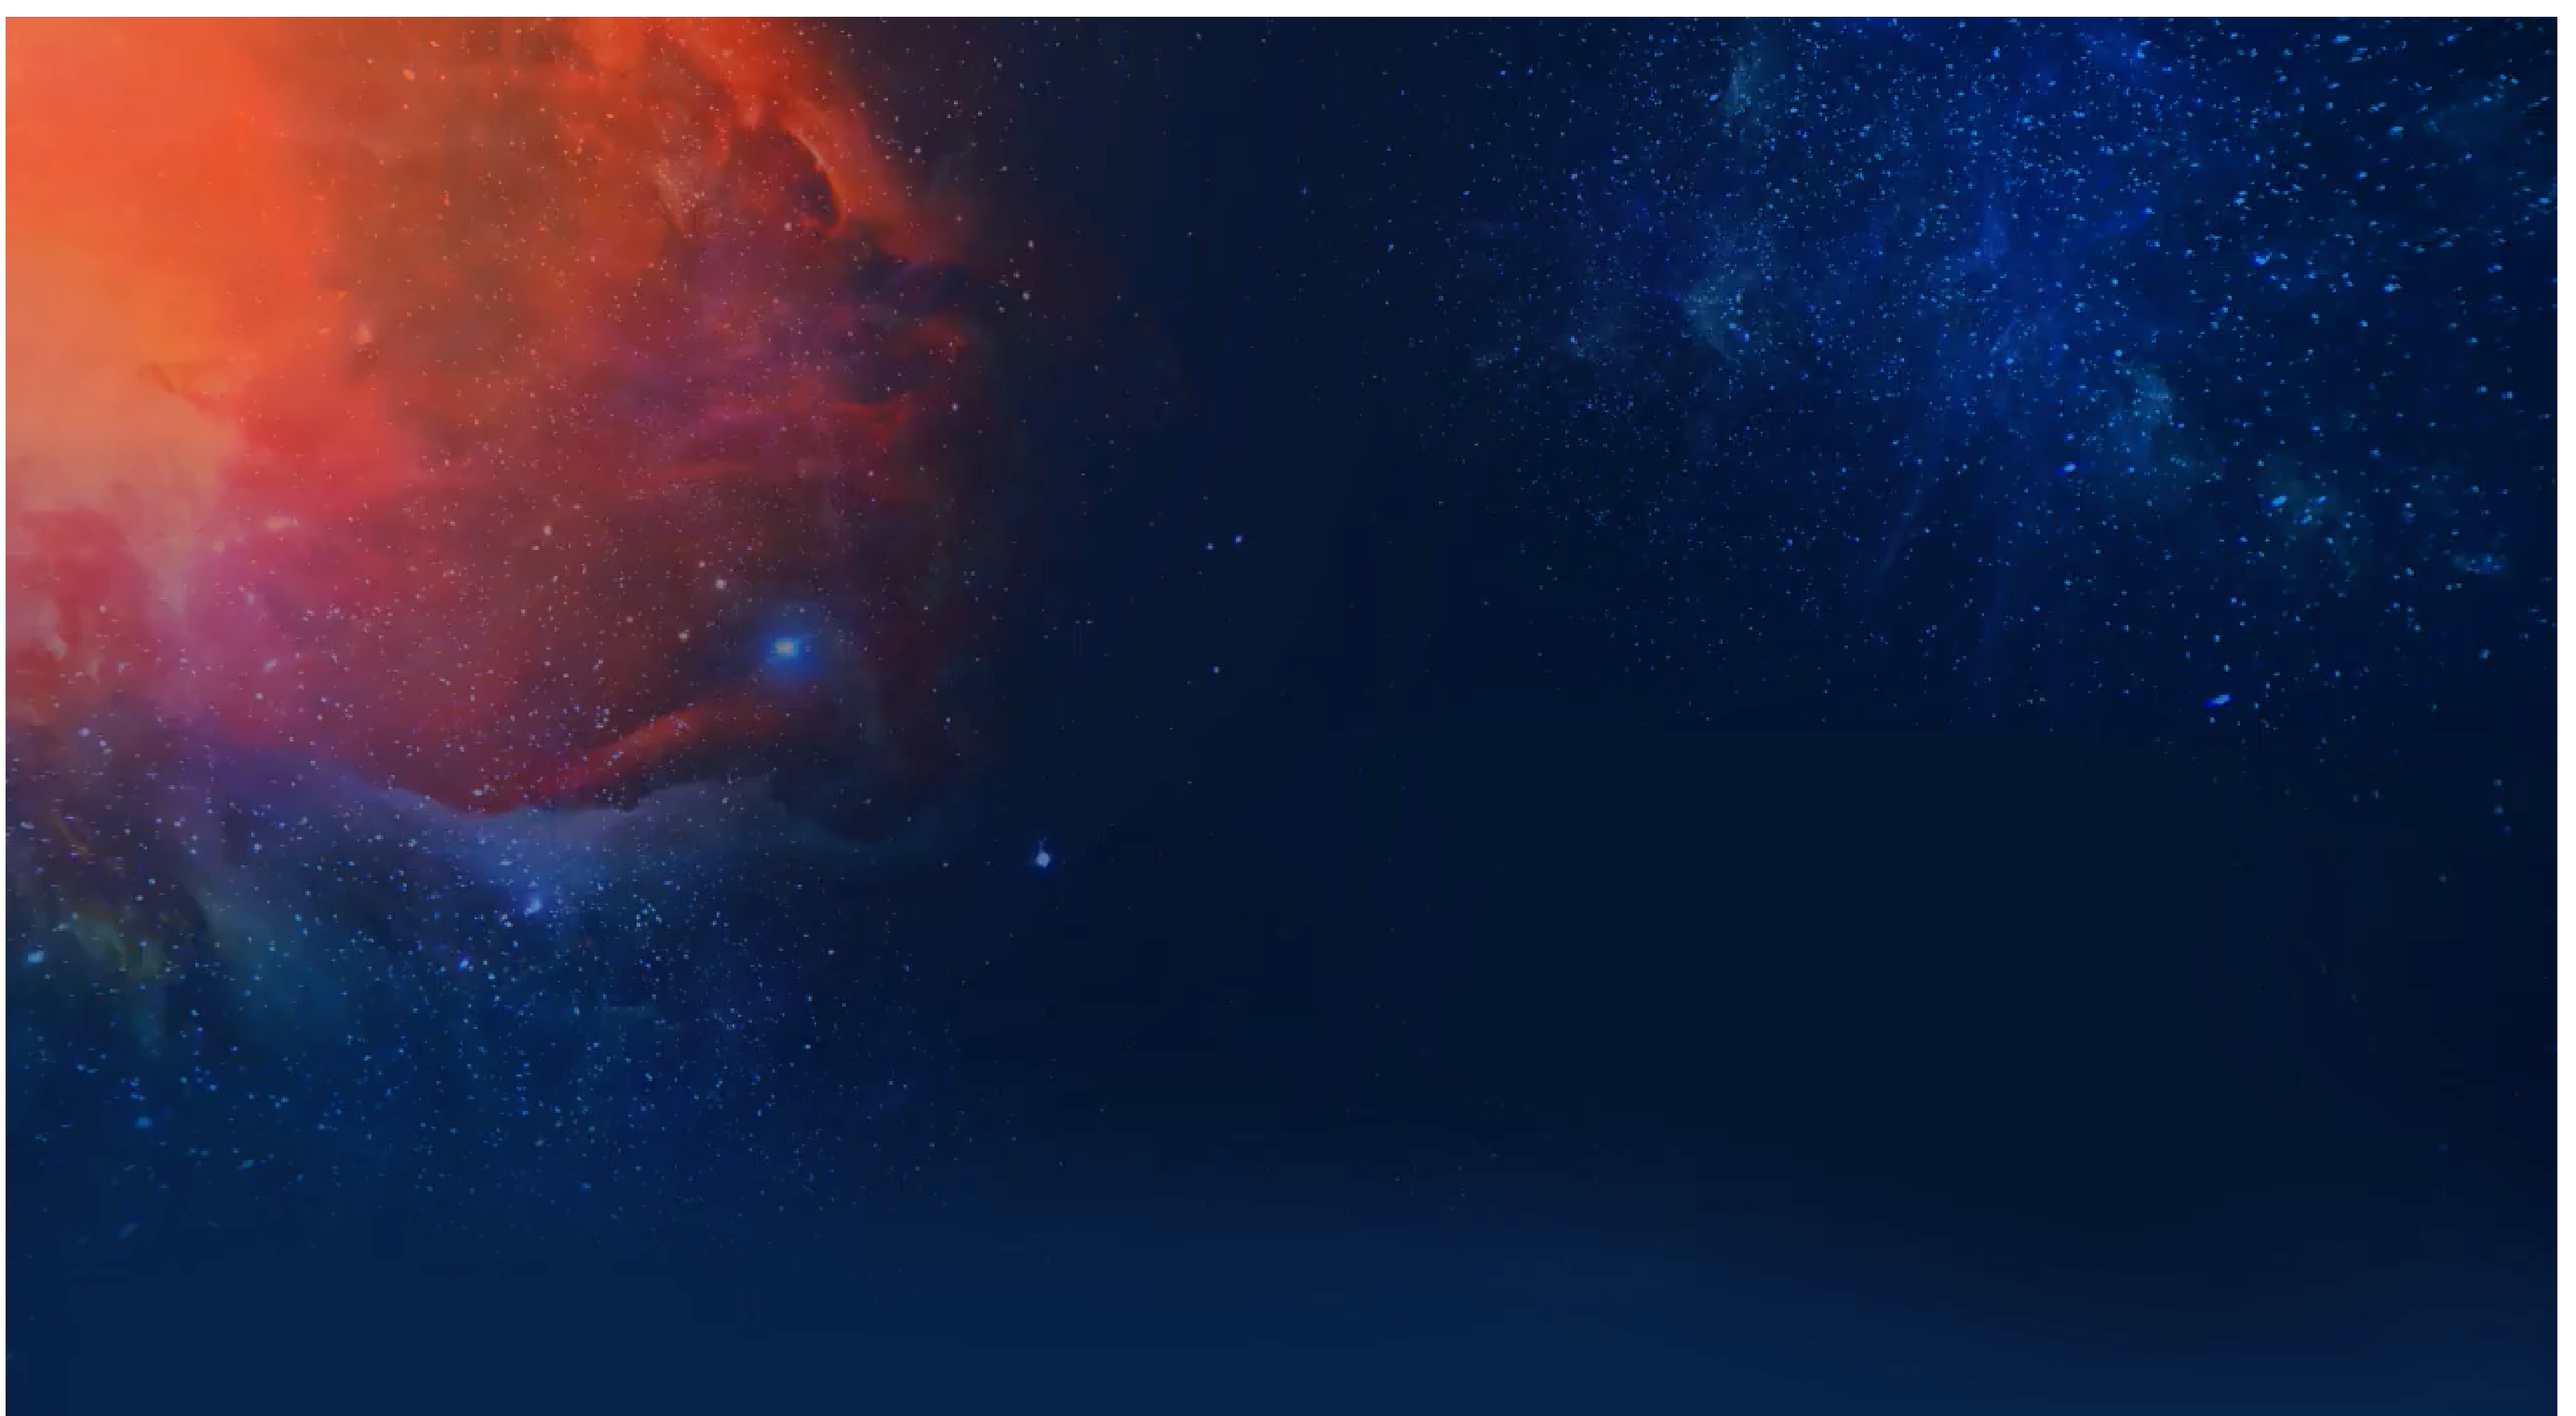
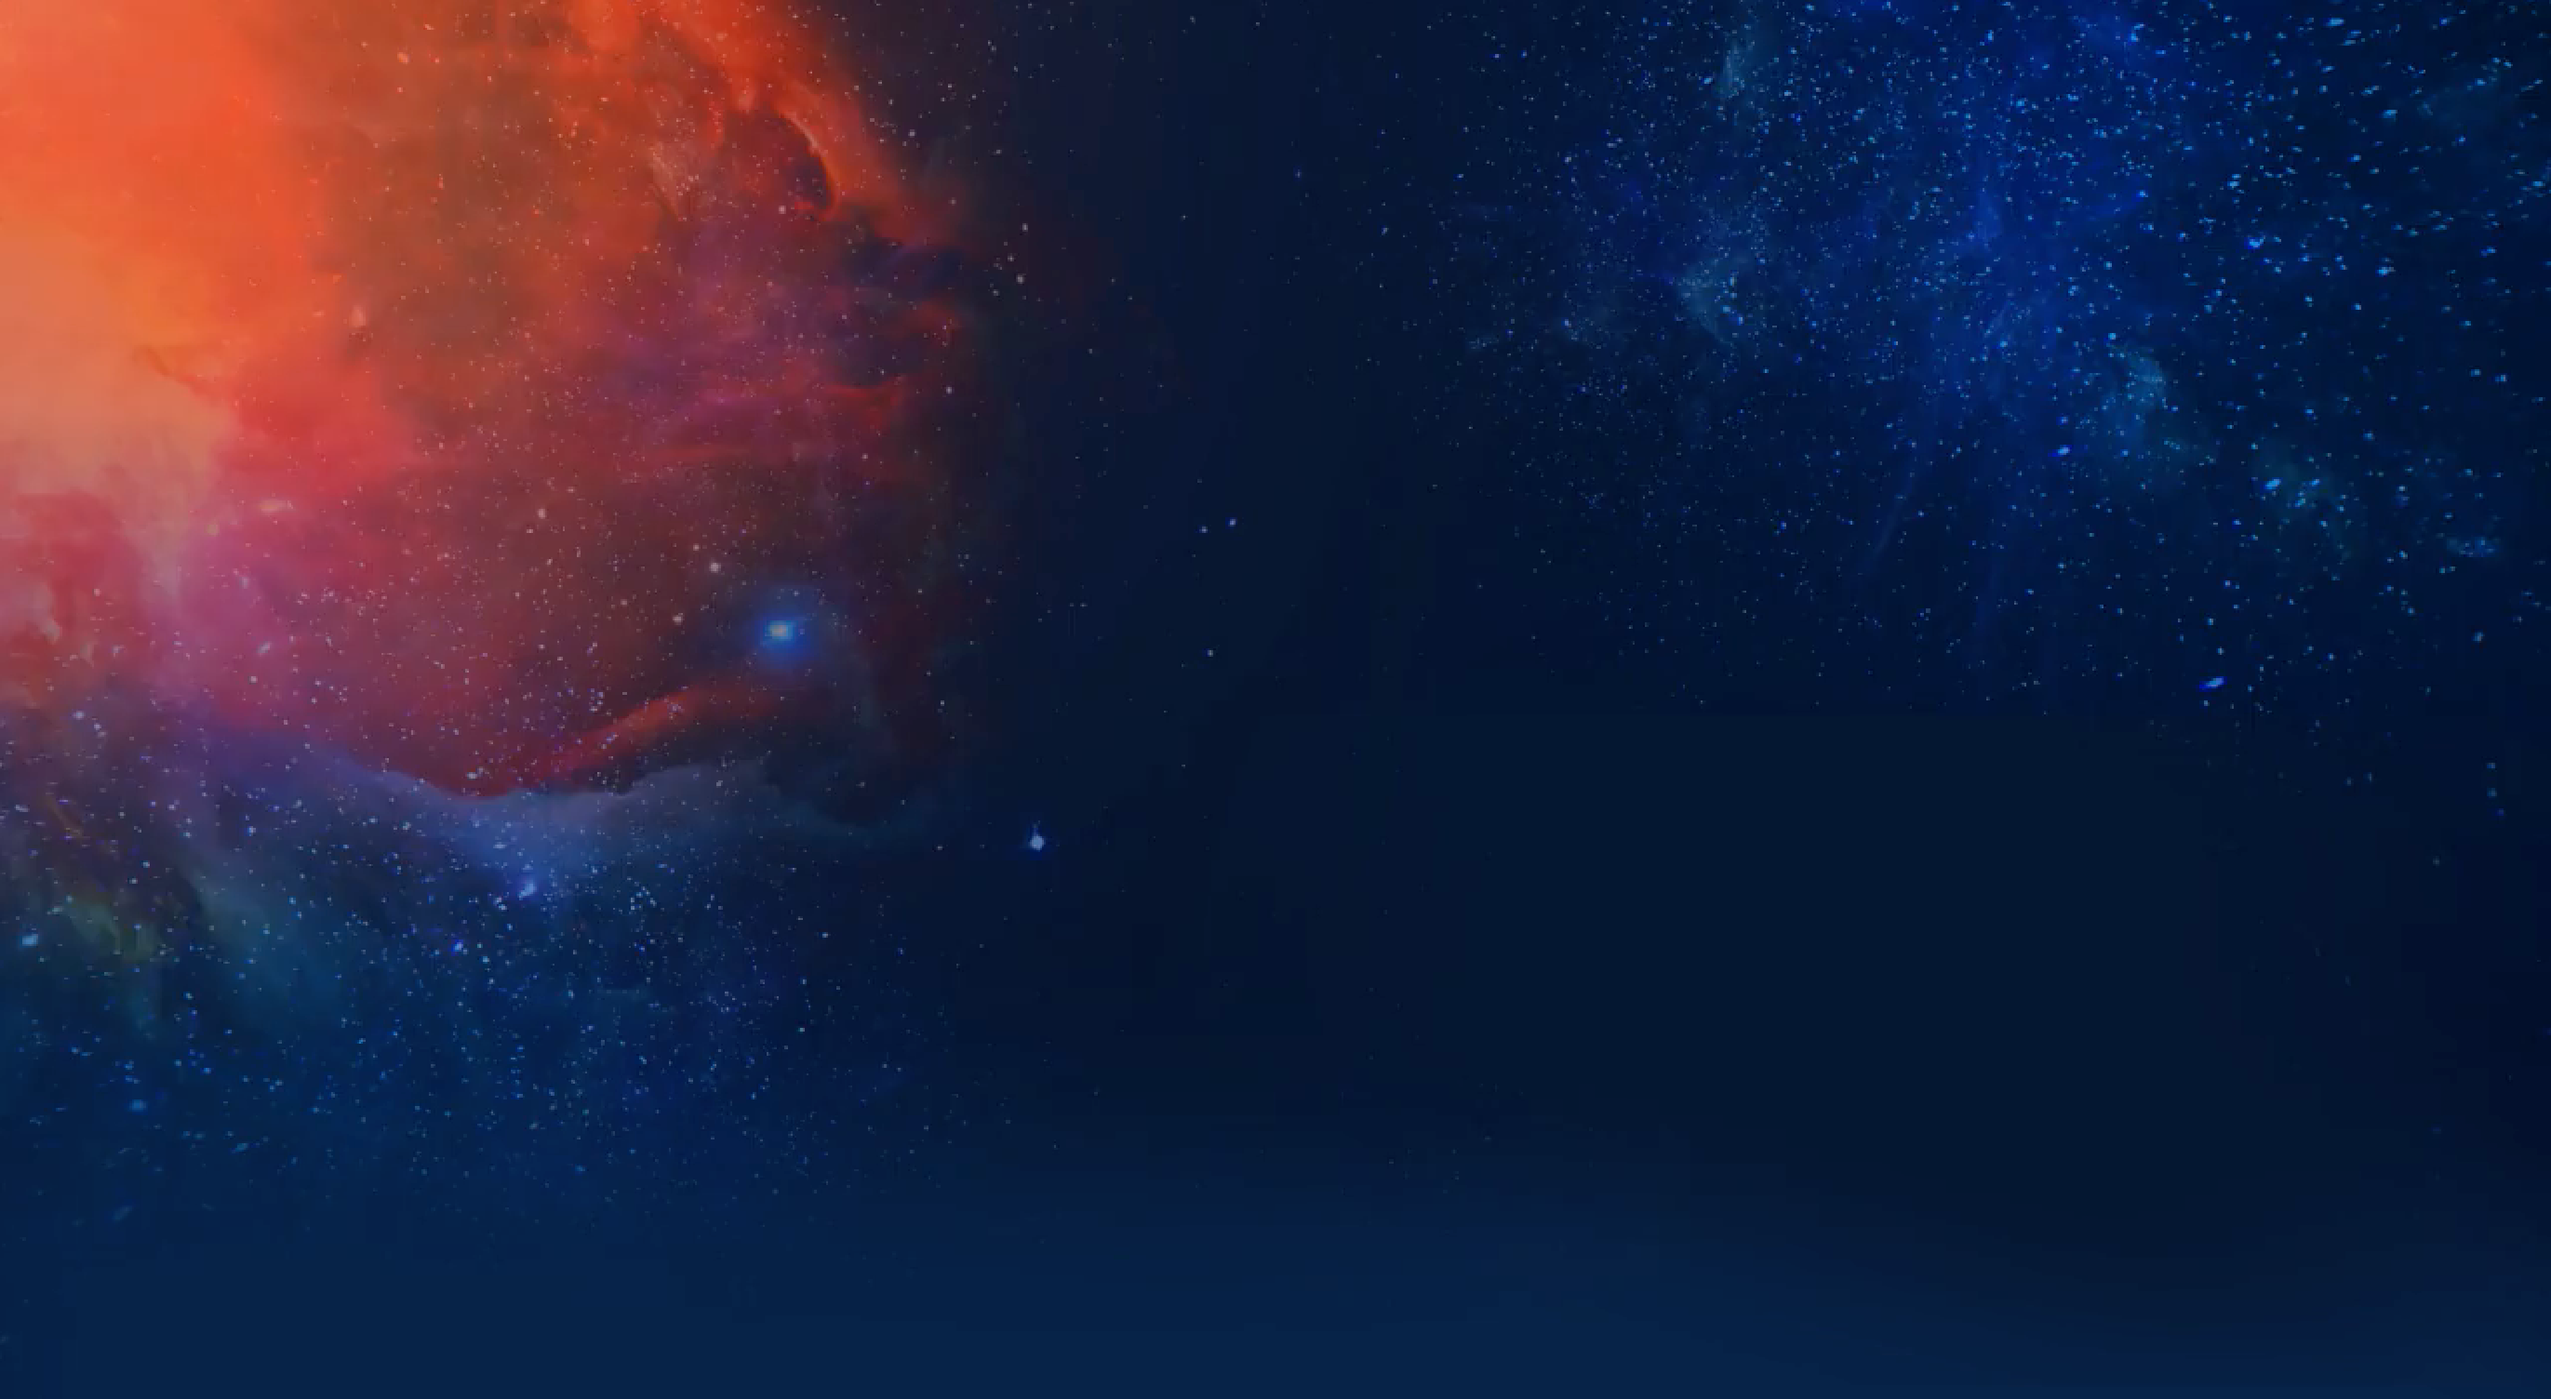
feat: :bento: change and add some assets

diff --git a/src/index.css b/src/index.css
@@ -24,7 +24,9 @@
 
 .App {
   background-image: url('./assets/background.png');
-  background-size: auto;
+  background-size: contain;
+  background-repeat: no-repeat;
+  background-color: #072348;
   width: 100%;
   display: flex;
   flex-direction: column;
